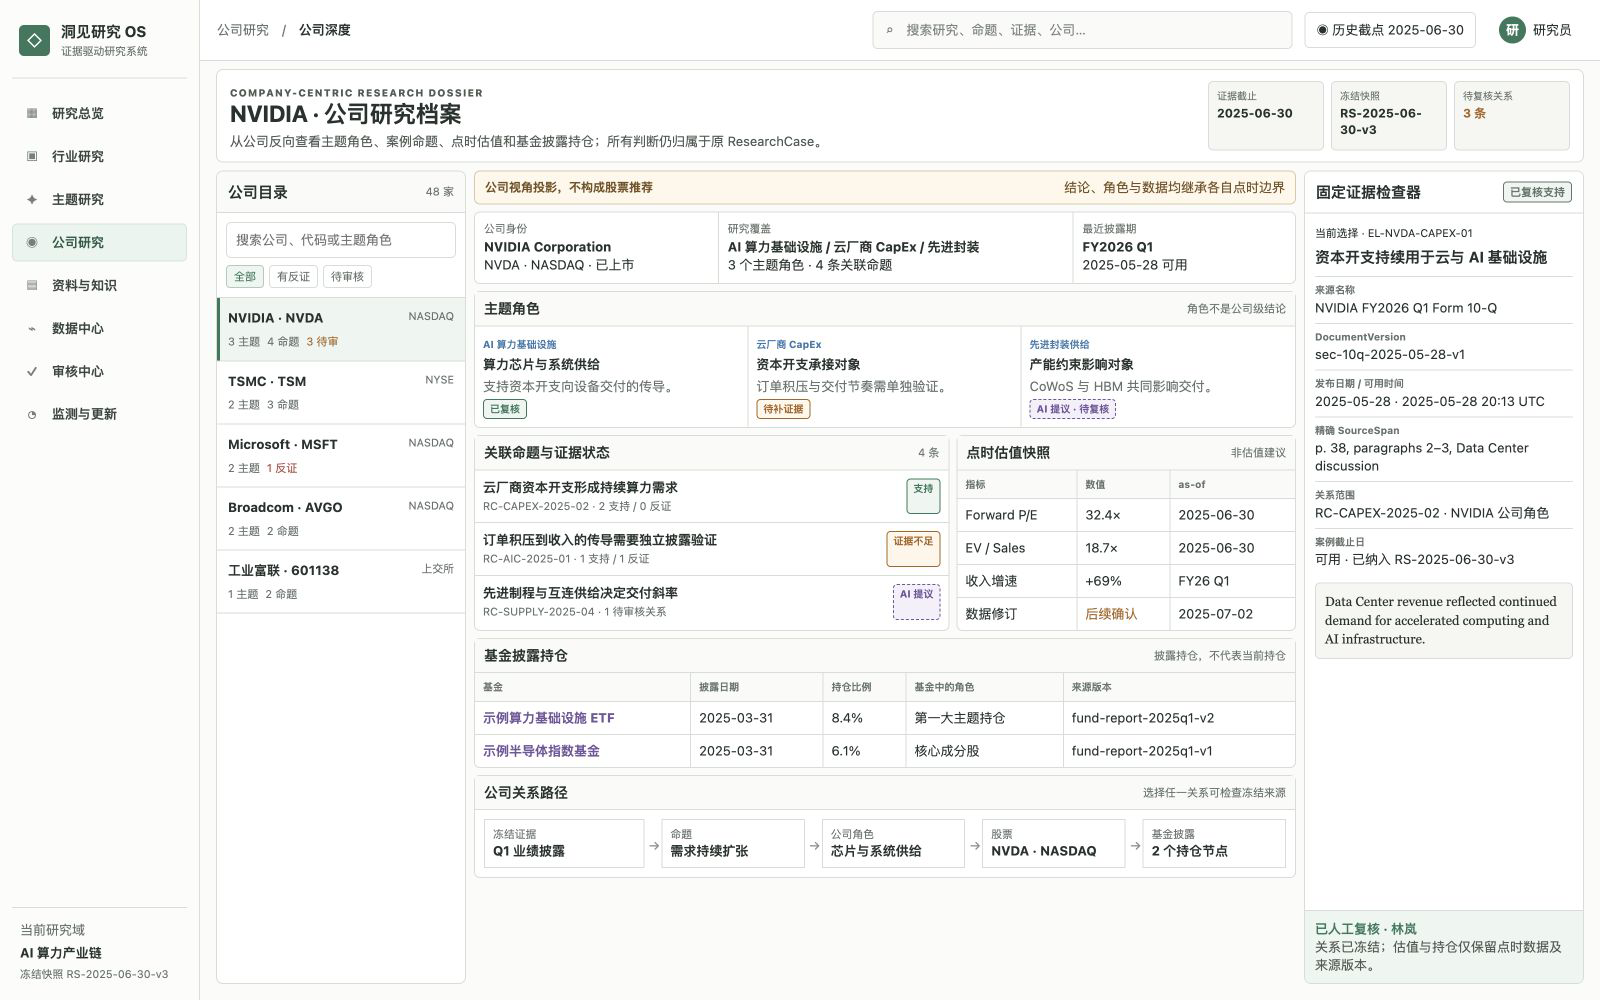
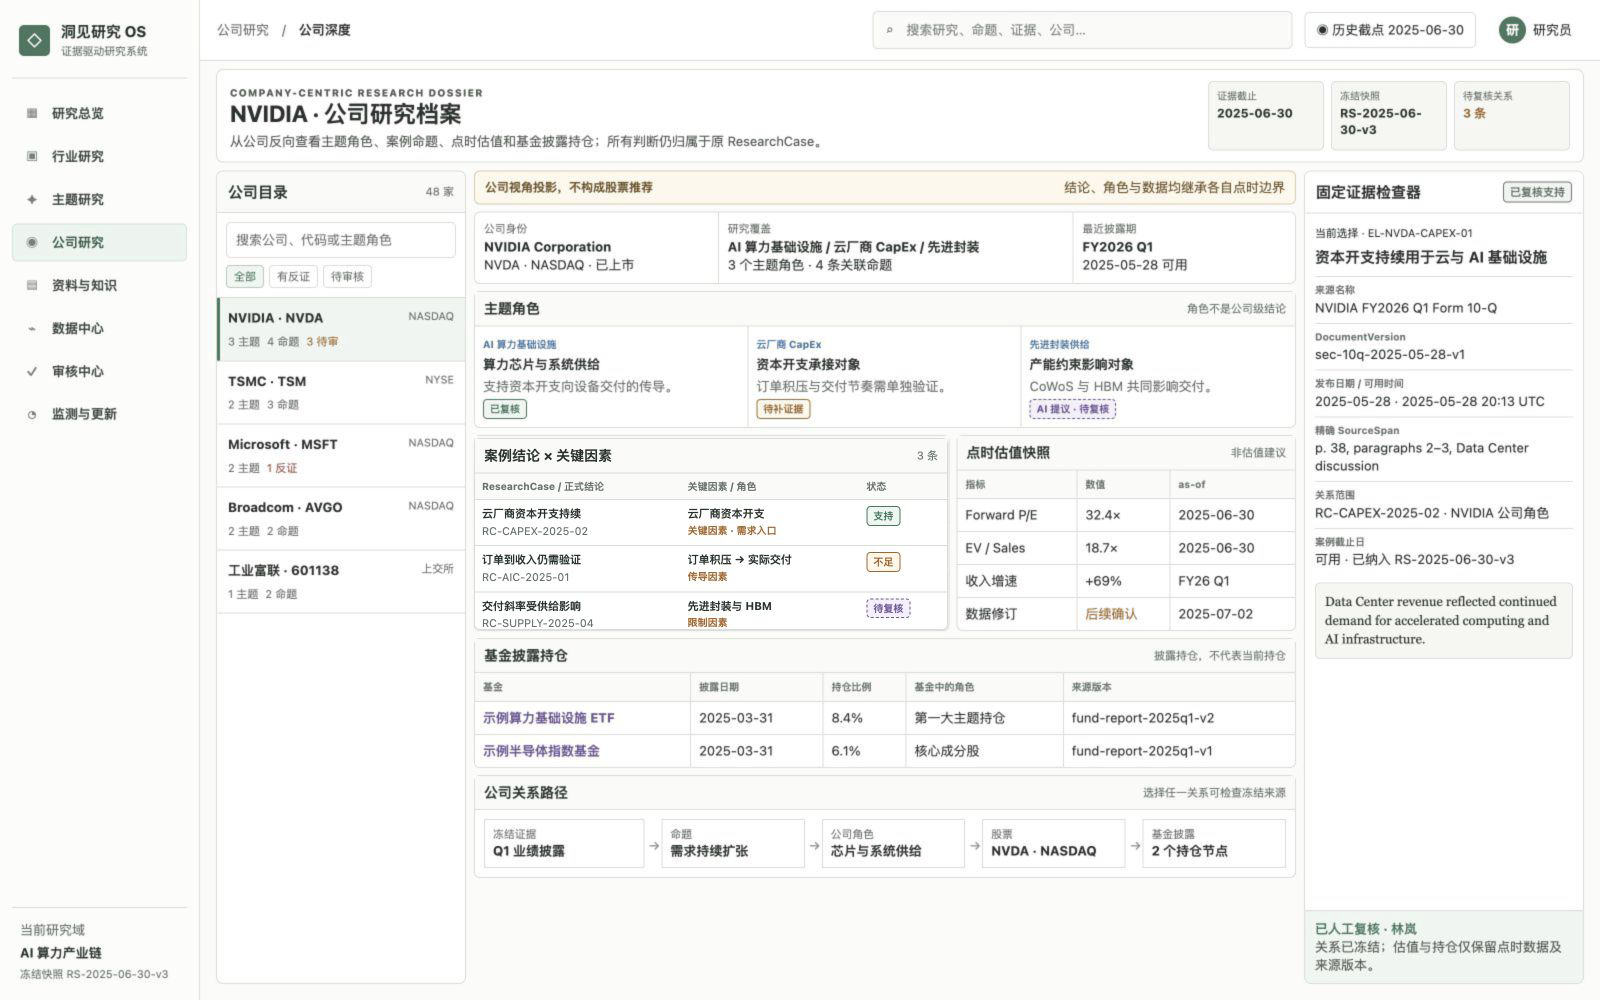
fix(nav): 左侧导航按行业研究/资料与知识/数据中心分组 (设计原型1/10/11)
- PrototypeShell：渲染三个分组标题，原 NAV_ITEMS 按 group 聚合
- 桌面侧栏 + 移动端导航同步改造
- styles-prototype.css 新增 .nav-group / .nav-group__title 样式
- 同步设计原型 9/10 PNG 视觉对齐

diff --git a/frontend/src/styles-prototype.css b/frontend/src/styles-prototype.css
@@ -92,8 +92,18 @@
 .insight-sidebar .brand strong { display: block; font-size: 13px; }
 .insight-sidebar .brand small { color: var(--nav-muted); font-size: 11px; }
 .insight-sidebar .nav-list {
-  display: flex; flex-direction: column; gap: 2px;
+  display: flex; flex-direction: column; gap: 4px;
   list-style: none; padding: 0; margin: 0;
+}
+.insight-sidebar .nav-group { display: flex; flex-direction: column; gap: 2px; }
+.insight-sidebar .nav-group__title {
+  font-size: 11px;
+  font-weight: 600;
+  letter-spacing: 0.04em;
+  text-transform: uppercase;
+  color: var(--ink-soft);
+  padding: 10px 10px 4px 10px;
+  opacity: 0.85;
 }
 .insight-sidebar .nav-link {
   display: grid;
@@ -3410,5 +3420,252 @@ a.prototype-button { text-decoration: none; }
   .company-list__directory {
     position: static;
     max-height: none;
+  }
+}
+
+/* ── 结论与关键因素 (设计原型11) ─────────────────────────────────────────── */
+.conclusion-screen { gap: 14px; }
+
+.conclusion-meta {
+  display: grid;
+  grid-template-columns: repeat(3, minmax(120px, 1fr));
+  gap: 12px;
+  font-size: 12px;
+  color: var(--ink-soft);
+}
+.conclusion-meta strong {
+  display: block;
+  font-size: 13px;
+  margin-top: 2px;
+  color: var(--ink-strong, #2a2a2a);
+}
+
+.conclusion-summary {
+  margin: 8px 0 12px 0;
+  color: var(--ink-soft);
+  font-size: 13px;
+  line-height: 1.6;
+}
+
+.conclusion-bullets {
+  display: grid;
+  grid-template-columns: repeat(3, minmax(0, 1fr));
+  gap: 10px;
+}
+.conclusion-bullets article {
+  font-size: 12px;
+  color: var(--ink-soft);
+}
+.conclusion-bullets article strong {
+  display: inline-block;
+  margin-right: 6px;
+  color: var(--ink-strong, #2a2a2a);
+  font-family: ui-monospace, "SFMono-Regular", Menlo, monospace;
+}
+
+.conclusion-cutoff-control {
+  display: flex;
+  align-items: center;
+  gap: 10px;
+  font-size: 12px;
+  color: var(--ink-soft);
+}
+.conclusion-cutoff-control input[type="date"] {
+  font-size: 12px;
+  padding: 2px 6px;
+  border: 1px solid var(--ink-line, #d0d0d0);
+  border-radius: 4px;
+  background: transparent;
+}
+
+.conclusion-grid {
+  display: grid;
+  grid-template-columns: 320px minmax(0, 1fr) 300px;
+  gap: 12px;
+  align-items: start;
+}
+
+.key-factor-list {
+  list-style: none;
+  margin: 0;
+  padding: 0;
+  display: flex;
+  flex-direction: column;
+  gap: 8px;
+}
+.key-factor {
+  padding: 10px 12px;
+  border: 1px solid var(--ink-line, #e0e0e0);
+  border-radius: 6px;
+  cursor: pointer;
+  background: var(--paper-soft, #fafaf6);
+  transition: border-color 120ms ease;
+}
+.key-factor:hover { border-color: var(--ink-soft, #888); }
+.key-factor--selected {
+  border-color: var(--ink-strong, #2a2a2a);
+  background: var(--paper-accent, #fffbe6);
+}
+.key-factor__head {
+  display: flex;
+  align-items: center;
+  gap: 8px;
+  flex-wrap: wrap;
+  margin-bottom: 6px;
+}
+.key-factor__id {
+  font-family: ui-monospace, "SFMono-Regular", Menlo, monospace;
+  font-size: 11px;
+  color: var(--ink-soft);
+}
+.key-factor__title {
+  flex: 1 1 auto;
+  font-weight: 600;
+}
+.key-factor__body p {
+  margin: 4px 0;
+  font-size: 12px;
+  color: var(--ink-soft);
+  line-height: 1.5;
+}
+.key-factor__warning {
+  color: #b85a00;
+}
+.key-factor__falsifier {
+  color: var(--ink-strong, #2a2a2a);
+}
+
+.conclusion-center,
+.conclusion-right {
+  display: flex;
+  flex-direction: column;
+  gap: 12px;
+}
+
+.comparison-table-wrap {
+  overflow-x: auto;
+}
+.comparison-table {
+  width: 100%;
+  border-collapse: collapse;
+  font-size: 12px;
+}
+.comparison-table th,
+.comparison-table td {
+  padding: 8px 10px;
+  border-bottom: 1px solid var(--ink-line, #e0e0e0);
+  text-align: left;
+  vertical-align: top;
+}
+.comparison-table thead th {
+  background: var(--paper-soft, #fafaf6);
+  font-weight: 600;
+  color: var(--ink-soft);
+  white-space: nowrap;
+}
+.comparison-row { cursor: pointer; }
+.comparison-row--selected {
+  background: var(--paper-accent, #fffbe6);
+}
+
+.source-group {
+  border-top: 1px solid var(--ink-line, #e0e0e0);
+  padding-top: 10px;
+  margin-top: 10px;
+}
+.source-group:first-child { border-top: none; padding-top: 0; margin-top: 0; }
+.source-group h4 {
+  margin: 0 0 6px 0;
+  font-size: 13px;
+}
+.source-group ul {
+  list-style: none;
+  margin: 0;
+  padding: 0;
+  display: flex;
+  flex-direction: column;
+  gap: 8px;
+}
+.source-group li p {
+  margin: 4px 0;
+  font-size: 12px;
+  color: var(--ink-soft);
+}
+
+.causal-path {
+  list-style: none;
+  margin: 0;
+  padding: 0;
+  counter-reset: cp;
+  display: flex;
+  flex-wrap: wrap;
+  gap: 6px;
+}
+.causal-path li {
+  display: inline-flex;
+  align-items: center;
+  gap: 6px;
+  padding: 6px 10px;
+  border: 1px solid var(--ink-line, #e0e0e0);
+  border-radius: 6px;
+  background: var(--paper-soft, #fafaf6);
+  font-size: 12px;
+}
+.causal-path__seq {
+  font-family: ui-monospace, "SFMono-Regular", Menlo, monospace;
+  font-weight: 700;
+  color: var(--ink-strong, #2a2a2a);
+}
+
+.manifest {
+  display: grid;
+  grid-template-columns: 1fr 1fr;
+  gap: 8px 12px;
+  margin: 0;
+  font-size: 12px;
+}
+.manifest dt {
+  color: var(--ink-soft);
+  font-weight: 500;
+}
+.manifest dd {
+  margin: 0;
+  color: var(--ink-strong, #2a2a2a);
+}
+.manifest code {
+  font-size: 11px;
+}
+
+.conclusion-mono {
+  font-family: ui-monospace, "SFMono-Regular", Menlo, monospace;
+  font-size: 11px;
+}
+.conclusion-mono-block {
+  display: block;
+  font-family: ui-monospace, "SFMono-Regular", Menlo, monospace;
+  font-size: 11px;
+  background: var(--paper-soft, #fafaf6);
+  padding: 10px 12px;
+  border-radius: 6px;
+  white-space: pre-wrap;
+  word-break: break-all;
+}
+
+.conclusion-loading,
+.conclusion-error {
+  padding: 24px;
+  text-align: center;
+  color: var(--ink-soft);
+}
+
+@media (max-width: 1180px) {
+  .conclusion-grid {
+    grid-template-columns: 1fr;
+  }
+  .conclusion-bullets {
+    grid-template-columns: 1fr;
+  }
+  .conclusion-meta {
+    grid-template-columns: 1fr;
   }
 }

diff --git a/frontend/src/components/PrototypeShell.tsx b/frontend/src/components/PrototypeShell.tsx
@@ -24,6 +24,13 @@ const NAV_ITEMS: NavItem[] = [
   { to: "/versions", label: "监测与更新", icon: "↻", group: "knowledge" },
 ];
 
+// 左侧导航分组标题（与设计原型 1/10/11 视觉一致）
+const NAV_GROUP_LABELS: Record<"primary" | "industry" | "knowledge", string> = {
+  primary: "行业研究",
+  industry: "资料与知识",
+  knowledge: "数据中心",
+};
+
 const SHELL_CONTEXT: Record<string, [string, string]> = {
   themes: ["主题驱动", "主题列表"],
   topics: ["主题研究", "横切主题"],
@@ -135,17 +142,22 @@ export function PrototypeShell(_props: PrototypeShellProps) {
           </div>
         </div>
         <nav className="nav-list" aria-label="主导航">
-          {NAV_ITEMS.map((item) => (
-            <NavLink
-              key={item.to}
-              to={item.to}
-              className={({ isActive }) =>
-                `nav-link${isActive || active.primary === item.to ? " is-active" : ""}${item.group !== "primary" ? " nav-link--nested" : ""}`
-              }
-            >
-              <span className="nav-icon" aria-hidden>{item.icon}</span>
-              <span>{item.label}</span>
-            </NavLink>
+          {(["primary", "industry", "knowledge"] as const).map((group) => (
+            <div key={group} className="nav-group" data-group={group}>
+              <div className="nav-group__title">{NAV_GROUP_LABELS[group]}</div>
+              {NAV_ITEMS.filter((item) => item.group === group).map((item) => (
+                <NavLink
+                  key={item.to}
+                  to={item.to}
+                  className={({ isActive }) =>
+                    `nav-link${isActive || active.primary === item.to ? " is-active" : ""}${item.group !== "primary" ? " nav-link--nested" : ""}`
+                  }
+                >
+                  <span className="nav-icon" aria-hidden>{item.icon}</span>
+                  <span>{item.label}</span>
+                </NavLink>
+              ))}
+            </div>
           ))}
         </nav>
       </aside>
@@ -213,17 +225,22 @@ export function PrototypeShell(_props: PrototypeShellProps) {
       <details className="mobile-nav">
         <summary>导航</summary>
         <nav className="mobile-nav-links" aria-label="移动端主导航">
-          {NAV_ITEMS.map((item) => (
-            <NavLink
-              key={item.to}
-              to={item.to}
-              className={({ isActive }) =>
-                `nav-link${isActive || active.primary === item.to ? " is-active" : ""}`
-              }
-            >
-              <span className="nav-icon" aria-hidden>{item.icon}</span>
-              <span>{item.label}</span>
-            </NavLink>
+          {(["primary", "industry", "knowledge"] as const).map((group) => (
+            <div key={group} className="nav-group">
+              <div className="nav-group__title">{NAV_GROUP_LABELS[group]}</div>
+              {NAV_ITEMS.filter((item) => item.group === group).map((item) => (
+                <NavLink
+                  key={item.to}
+                  to={item.to}
+                  className={({ isActive }) =>
+                    `nav-link${isActive || active.primary === item.to ? " is-active" : ""}`
+                  }
+                >
+                  <span className="nav-icon" aria-hidden>{item.icon}</span>
+                  <span>{item.label}</span>
+                </NavLink>
+              ))}
+            </div>
           ))}
         </nav>
       </details>
